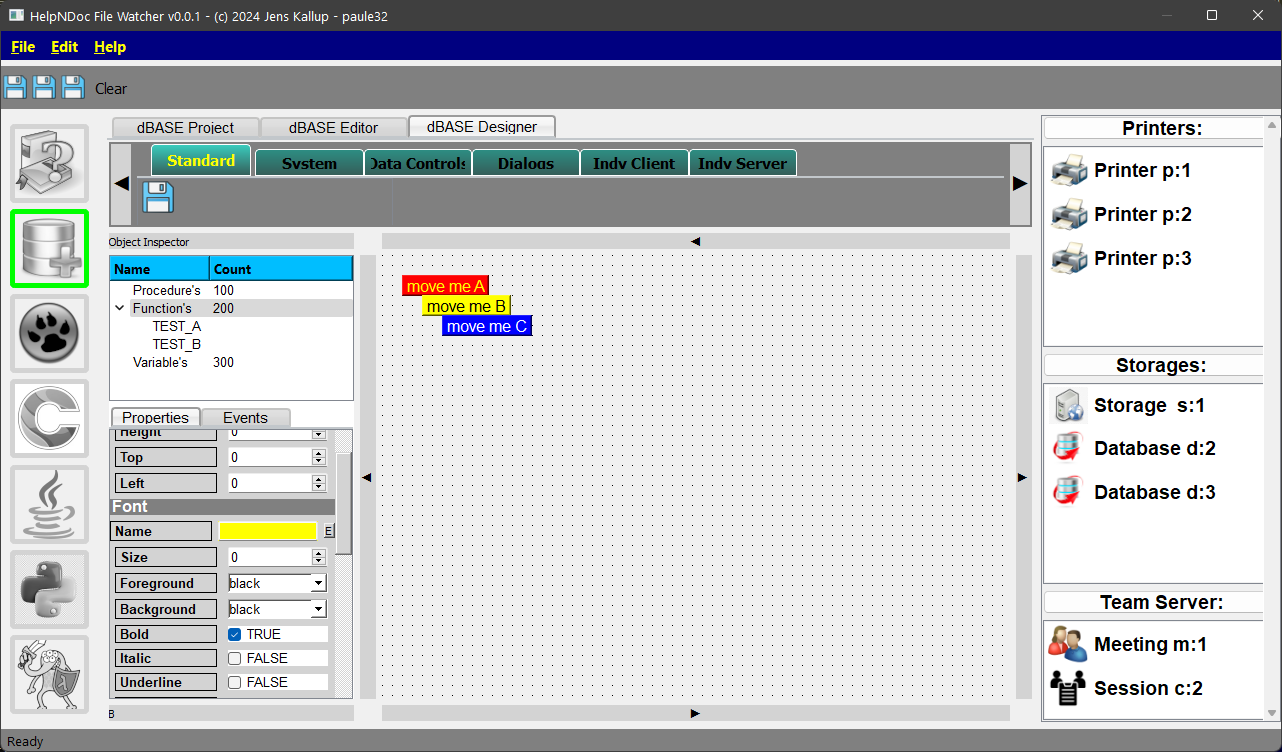
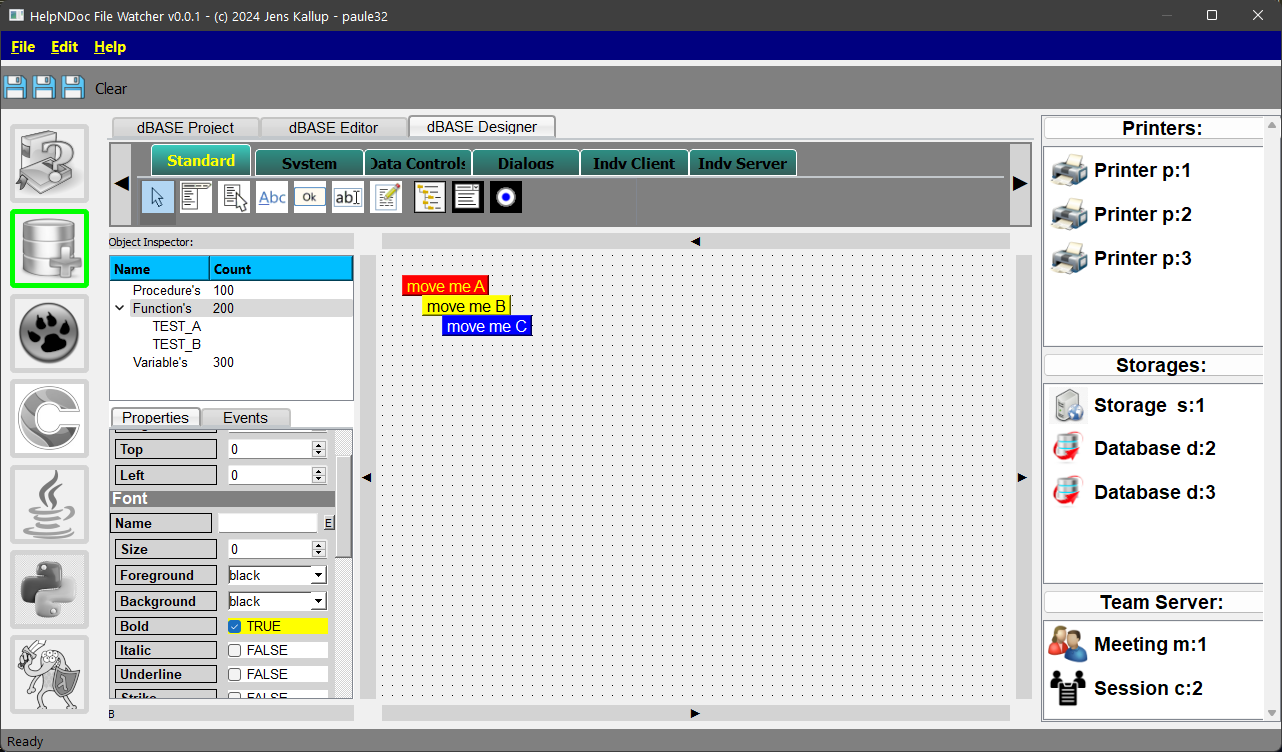
update

Changed region(s): [[0.0624, 0.5505, 0.2808, 0.9481], [0.0936, 0.2141, 0.4056, 0.3059], [0.9984, 0.9787, 1.0, 1.0]]

diff --git a/src/observer.py b/src/observer.py
@@ -2712,7 +2712,7 @@ class myGridViewer(QWidget):
         self.property_tabs2.setLayout(self.vl2)
         
         
-        self.property_top    = QLabel("Object Inspector")
+        self.property_top    = QLabel("Object Inspector:")
         self.property_bottom = QLabel("B")
         #
         self.set_style(self.property_top)
@@ -3114,9 +3114,31 @@ class FileWatcherGUI(QDialog):
         self.dbase_tabs_widget_standard_listwidget = QListWidget(self.dbase_palette_widget_mid_tabs_widget_standard)
         self.dbase_tabs_widget_standard_listwidget.setViewMode(QListView.IconMode)
         self.dbase_tabs_widget_standard_listwidget.setResizeMode(QListView.Adjust)
+        self.dbase_tabs_widget_standard_listwidget.setMinimumWidth(500)
+        #self.dbase_tabs_widget_standard_listwidget.setStyleSheet("background-color:yellow;")
         #
+        self.dbase_tabs_widget_standard_listwidget_btn0 = QListWidgetItem("", self.dbase_tabs_widget_standard_listwidget)
+        self.dbase_tabs_widget_standard_listwidget_btn0.setIcon(QIcon(__app__img__int__ + "tmouse_150.bmp"))
         self.dbase_tabs_widget_standard_listwidget_btn1 = QListWidgetItem("", self.dbase_tabs_widget_standard_listwidget)
-        self.dbase_tabs_widget_standard_listwidget_btn1.setIcon(QIcon(__app__img__int__ + "floppy-disk.png"))
+        self.dbase_tabs_widget_standard_listwidget_btn1.setIcon(QIcon(__app__img__int__ + "tmainmenu_150.bmp"))
+        self.dbase_tabs_widget_standard_listwidget_btn2 = QListWidgetItem("", self.dbase_tabs_widget_standard_listwidget)
+        self.dbase_tabs_widget_standard_listwidget_btn2.setIcon(QIcon(__app__img__int__ + "tpopupmenu_150.bmp"))
+        self.dbase_tabs_widget_standard_listwidget_btn3 = QListWidgetItem("", self.dbase_tabs_widget_standard_listwidget)
+        self.dbase_tabs_widget_standard_listwidget_btn3.setIcon(QIcon(__app__img__int__ + "tlabel_150.bmp"))
+        self.dbase_tabs_widget_standard_listwidget_btn4 = QListWidgetItem("", self.dbase_tabs_widget_standard_listwidget)
+        self.dbase_tabs_widget_standard_listwidget_btn4.setIcon(QIcon(__app__img__int__ + "tbutton_150.bmp"))
+        self.dbase_tabs_widget_standard_listwidget_btn5 = QListWidgetItem("", self.dbase_tabs_widget_standard_listwidget)
+        self.dbase_tabs_widget_standard_listwidget_btn5.setIcon(QIcon(__app__img__int__ + "tedit_150.bmp"))
+        self.dbase_tabs_widget_standard_listwidget_btn6 = QListWidgetItem("", self.dbase_tabs_widget_standard_listwidget)
+        self.dbase_tabs_widget_standard_listwidget_btn6.setIcon(QIcon(__app__img__int__ + "tmemo_150.bmp"))
+        self.dbase_tabs_widget_standard_listwidget_btn7 = QListWidgetItem("", self.dbase_tabs_widget_standard_listwidget)
+        self.dbase_tabs_widget_standard_listwidget_btn7.setIcon(QIcon(__app__img__int__ + "tlistbox_150.bmp"))
+        self.dbase_tabs_widget_standard_listwidget_btn8 = QListWidgetItem("", self.dbase_tabs_widget_standard_listwidget)
+        self.dbase_tabs_widget_standard_listwidget_btn8.setIcon(QIcon(__app__img__int__ + "ttreeview_150.bmp"))
+        self.dbase_tabs_widget_standard_listwidget_btn9 = QListWidgetItem("", self.dbase_tabs_widget_standard_listwidget)
+        self.dbase_tabs_widget_standard_listwidget_btn9.setIcon(QIcon(__app__img__int__ + "tcombobox_150.bmp"))
+        self.dbase_tabs_widget_standard_listwidget_btnA = QListWidgetItem("", self.dbase_tabs_widget_standard_listwidget)
+        self.dbase_tabs_widget_standard_listwidget_btnA.setIcon(QIcon(__app__img__int__ + "tradiobutton_150.bmp"))
         
         self.dbase_palette_widget_mid_layout.addWidget(self.dbase_palette_widget_mid_tabs)
         #
